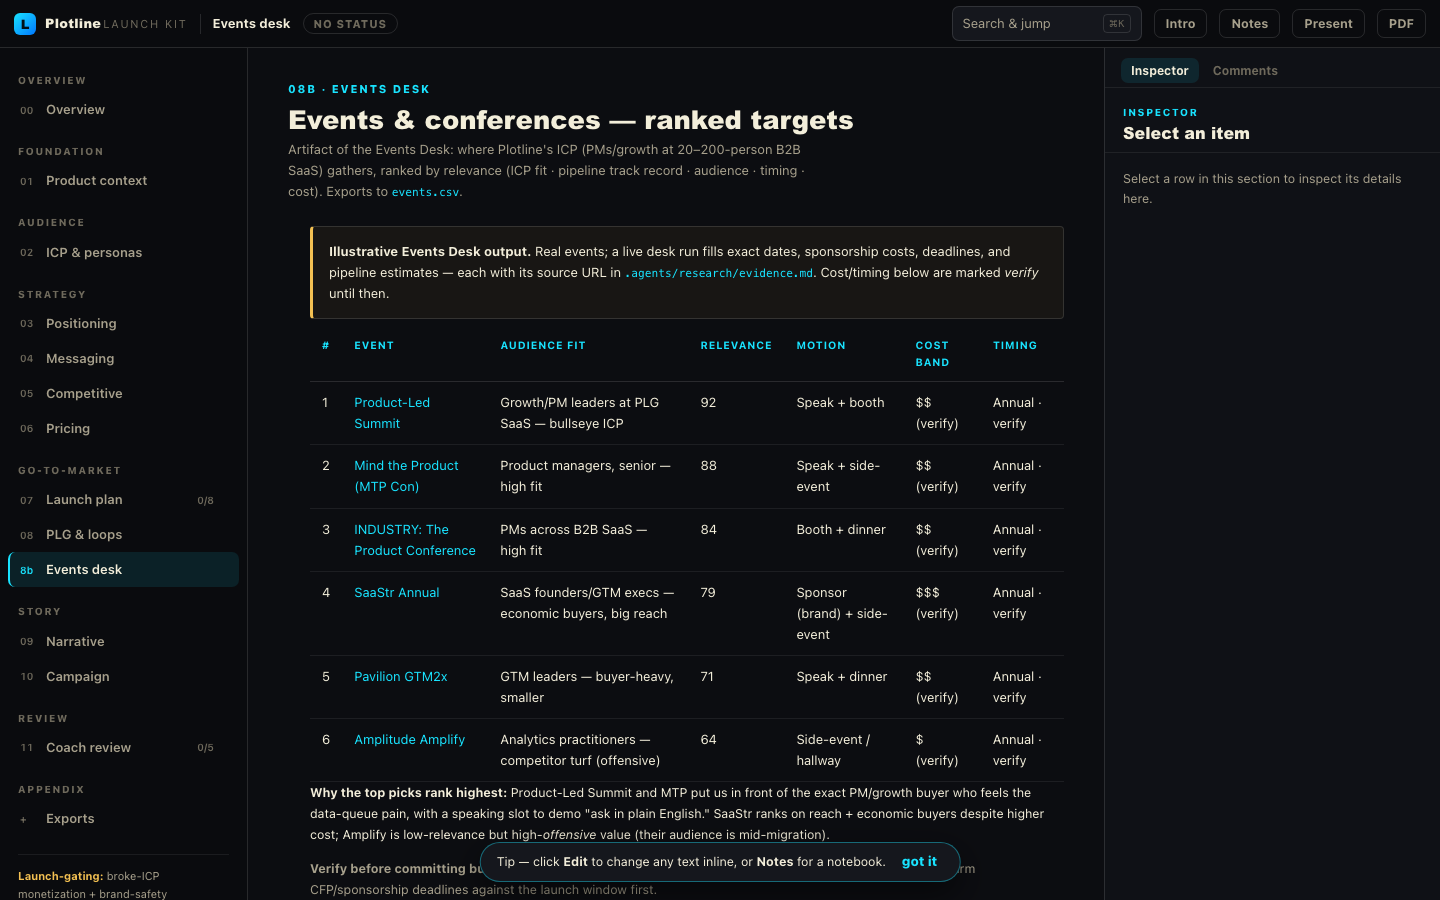
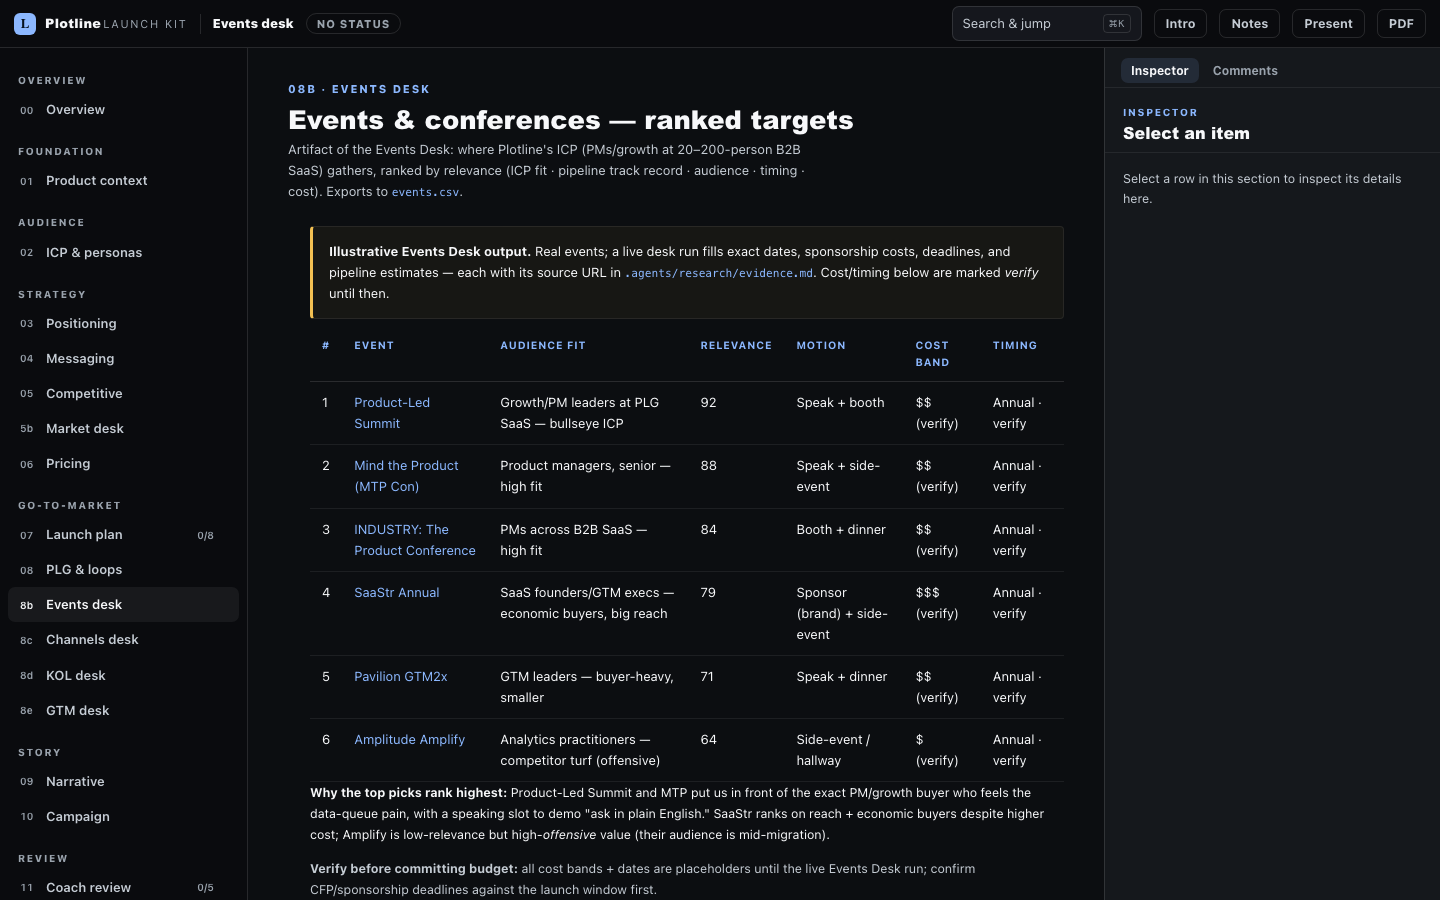
fix: every screenshot showed a product four desks out of date
The images in docs/images/ were captured 2026-07-08 and never regenerated. Since
then the kit gained Market desk, Channels desk, KOL desk and GTM desk — so every
screenshot in the README, including the hero gif, showed a 14-section sidebar
for a product that ships 18. The README says all ten desks ship; the pictures
disagreed. The social preview inherited the same stale frame.

All of it now regenerates from the current build with one command:

    bash scripts/regen-screenshots.sh

Chrome headless, no npm dependencies. Handles the two cases that used to need a
human: a same-origin shim presets the intro/tooltip "seen" flags so a fresh
headless profile doesn't capture the splash, and the command-palette shot comes
from a throwaway copy with an opener injected at the top of <head> — after the
app boots is too late. The gif is rebuilt from the six fresh view captures.

Also drops assets/wordmark.svg — a stray from squaring the logo for the OpenAI
submission, referenced nowhere.

Run this after any change to .kit-style.css or .kit-app.js, or the pictures
start lying again.

diff --git a/demo/plotline-launch/plotline-launch-kit.html b/demo/plotline-launch/plotline-launch-kit.html
@@ -445,7 +445,7 @@ table.db-table tr.sel-able:hover td{background:rgba(255,255,255,.025)}
     <div class="nav"><a href="#v-coach" data-v="v-coach"><span class="ix">11</span><span class="nl">Coach review</span><span class="scnt"></span><span class="sdot"></span></a></div>
     <div class="grp">Appendix</div>
     <div class="nav"><a href="#v-exports" data-v="v-exports"><span class="ix">+</span><span class="nl">Exports</span><span class="scnt"></span><span class="sdot"></span></a></div>
-    <div class="sidefoot"><b>Launch-gating:</b> broke-ICP monetization + brand-safety perception. Make consent / AI-label / anti-fraud structural before scaling loops.<br/><span class="dim" style="font-size:10px">build 2026-07-30 03:11 UTC</span></div>
+    <div class="sidefoot"><b>Launch-gating:</b> broke-ICP monetization + brand-safety perception. Make consent / AI-label / anti-fraud structural before scaling loops.<br/><span class="dim" style="font-size:10px">build 2026-07-30 03:19 UTC</span></div>
   </nav>
   <main class="work" id="work">
     <article class="view" id="v-overview" data-title="Overview">
